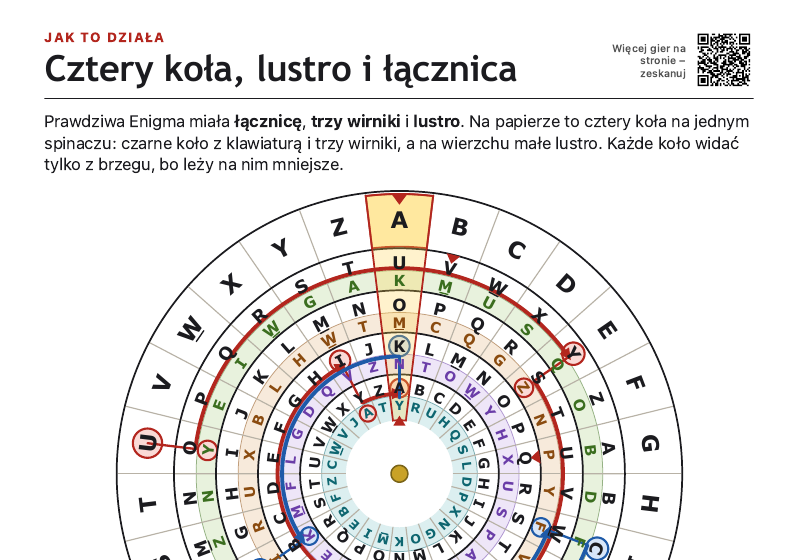
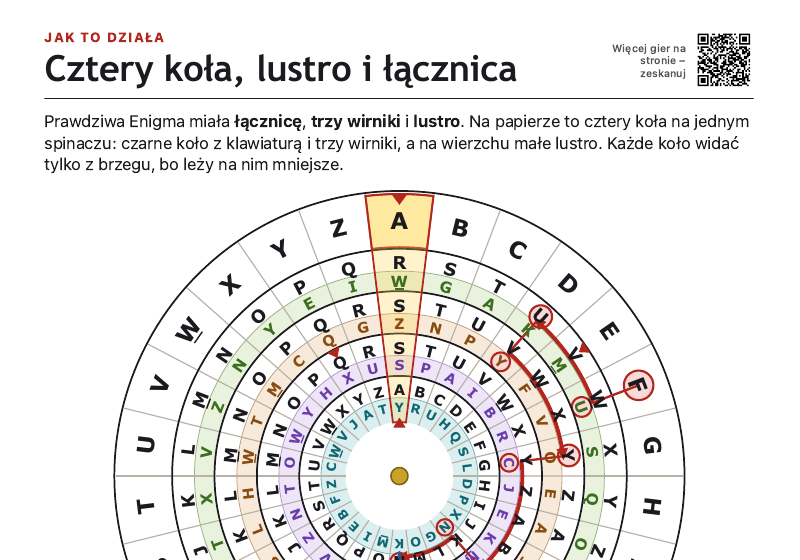
Prawdziwa Enigma 1932 (część 5): nowy klucz dnia, żeby droga pierwszej litery na stronie 2 była czytelna. Rysunek był poprawny, ale przy okienku KOT łuki „szukam tej samej litery na kole” wychodziły bardzo długie (lewy wirnik pół obrotu, prawy przez okienko, razem 54 miejsca), a droga do lustra i z 

diff --git a/enigma-1932/engine.test.js b/enigma-1932/engine.test.js
@@ -24,11 +24,11 @@ eq('paper wheels = Enigma I (2000 random days, 60 letters each)', bad, 0);
 // The day of the worksheet
 const { KEY, CODE, WINS, TRACES } = E;
 eq('the code deciphers to the message on paper', E.paper(KEY.order, KEY.start, KEY.plug, CODE), KEY.plain);
-eq('the code', CODE, 'UCVNTGNF');
+eq('the code', CODE, 'FGHUCWAN');
 eq('no letter becomes itself', [...CODE].some((c, i) => c === KEY.plain[i]), false);
-eq('windows', WINS.join(' '), 'KOU KOV KPW KPX KPY KPZ KPA KPB');
+eq('windows', WINS.join(' '), 'SSR SSS SST SSU SSV STW STX STY');
 eq('the lamps of the traces spell the message', TRACES.map(t => A[t[9]]).join(''), KEY.plain);
-eq('the first letter: no cable in, cable M–R out', TRACES[0].map(x => A[x]).join(''), 'UUELYARIMR');
+eq('the first letter: no cable in, cable J–R out', TRACES[0].map(x => A[x]).join(''), 'FFDGKNLKJR');
 // What the child reads, found again by walking the printed wheels: the coloured letter read on the way in, the black
 // letter read on the way out (each is the letter then looked for on the same wheel).
 const mod = x => ((x % 26) + 26) % 26;
@@ -42,10 +42,21 @@ function kidWay(win, ch) {
   out.push(A[spot]); out.push(sw[A[spot]] || A[spot]);
   return out.join('');
 }
-eq('the example shows what the child reads', E.STEPS[0].join(''), 'UUYZIAKFCMR');
+eq('the example shows what the child reads', E.STEPS[0].join(''), 'FFUYCNFDBJR');
+// The drawn way of the first letter stays readable: short steps on every wheel, and on no wheel do the way to the mirror
+// and the way back pass the same place.
+{
+  const t = TRACES[0], sd = (a, b) => { const d = mod(b - a); return d > 13 ? d - 26 : d; };
+  const arcs = [[1, 2], [2, 3], [3, 4], [4, 5], [5, 6], [6, 7], [7, 8]].map(([a, b]) => sd(t[a], t[b]));
+  const span = (a, d) => Array.from({ length: Math.abs(d) + 1 }, (_, i) => mod(a + Math.sign(d) * i));
+  const shared = [[0, 6], [1, 5], [2, 4]].reduce((n, [i, o]) => n + span(t[i + 1], arcs[i]).filter(x => span(t[o + 1], arcs[o]).includes(x)).length, 0);
+  eq('first letter: every step at most 4 places', Math.max(...arcs.map(Math.abs)) <= 4, true);
+  eq('first letter: no step of 0 (the letter is never right there)', arcs.includes(0), false);
+  eq('first letter: way in and way back never share a place', shared, 0);
+}
 eq('the key table shows what the child reads', E.STEPS.map(s => s.join('')).join(' '), [...CODE].map((c, i) => kidWay(WINS[i], c)).join(' '));
 const v = E.values();
-eq('middle rotor turns at letter 3', `${v.midTurn} ${v.midFrom} ${v.midTo}`, '3 KOV KPW');
+eq('middle rotor turns at letter 6', `${v.midTurn} ${v.midFrom} ${v.midTo}`, '6 SSV STW');
 eq('notches left → right', v.notches.join(''), 'QEV');
 eq('ways with 6 cables', String(E.ways(6)), '100391791500');
 eq('ways with 10 cables', String(E.ways(10)), '150738274937250');

diff --git a/enigma-1932/engine.js b/enigma-1932/engine.js
@@ -25,8 +25,12 @@ const E32 = (() => {
   const TOTAL = 7, DEFAULT_PAGES = [1, 2, 3, 4, 5, 6, 7];
 
   // ---------- the day's key and the message ----------
-  /** Rotors left → right, the window letters to start from, the plugboard cables, the message to decipher. */
-  const KEY = { order: ['I', 'II', 'III'], start: 'KOT', plug: 'RM EJ KS PW BX CZ', plain: 'REJEWSKI' };
+  /**
+   * Rotors left → right, the window letters to start from, the plugboard cables, the message to decipher. The start
+   * and the cables are chosen so that the first letter, drawn on page 2, takes short steps on every wheel and its way to
+   * the mirror and back never shares a place on a wheel (the path stays readable); its last step uses the first cable.
+   */
+  const KEY = { order: ['I', 'II', 'III'], start: 'SSQ', plug: 'JR EM KS PW BX CZ', plain: 'REJEWSKI' };
   const M = Z.machine(KEY.order, 'AAA', KEY.plug);
   const CODE = M.encrypt(KEY.start, KEY.plain);
   /** The window after each key press, and the way of every code letter typed (deciphering). */

diff --git a/enigma-1932/README.md b/enigma-1932/README.md
@@ -24,11 +24,11 @@ middle one turns if the right one, or the middle one itself, shows its notch let
 | Page | What |
 |---|---|
 | 1 | Cover: December 1932 (Rejewski, the wiring guessed from intercepts, maths and French documents; reading from January 1933 with Różycki and Zygalski, AVA's copies), what is inside, what you need, the order of the pages, a small picture of the machine put together |
-| 2 | How it works: the machine put together at window KOU with the way of the first letter (red to the mirror, blue back, the letters read ringed, drawn under the letters) and the letters the child reads and looks for, in boxes: key U, black U, right Y, middle Z, left I, mirror A, left K, middle F, right C, black M, lamp R (`E32.STEPS`) |
+| 2 | How it works: the machine put together at window SSR with the way of the first letter (red to the mirror, blue back, the letters read ringed, drawn under the letters) and the letters the child reads and looks for, in boxes: key F, black F, right U, middle Y, left C, mirror N, left F, middle D, right B, black J, lamp R (`E32.STEPS`). The day's key is chosen so that this way is short (at most 4 places on any wheel) and the way back never runs over the way in; the tests keep it so |
 | 3 | Cut-out 1 of 2: black wheel, left rotor, mirror |
 | 4 | Cut-out 2 of 2: right and middle rotor, how to build it, how to read the window |
 | 5 | The plugboard: the panel with today's cables, the strip, "through the plugboard twice", an empty panel to draw on, how many ways (6 cables: 100 391 791 500) |
-| 6 | Mission, the cipher clerk's exam: today's key (rotors I II III, window KOT, plugboard RM EJ KS PW BX CZ, mirror B), the turning rules, the way of the current; A decode UCVNTGNF → REJEWSKI (first letter given; the middle rotor turns at letter 3), B encode your name, C how many settings (6 × 17 576 × 100 391 791 500) |
+| 6 | Mission, the cipher clerk's exam: today's key (rotors I II III, window SSQ, plugboard JR EM KS PW BX CZ, mirror B), the turning rules, the way of the current; A decode FGHUCWAN → REJEWSKI (first letter given; the middle rotor turns at letter 6), B encode your name, C how many settings (6 × 17 576 × 100 391 791 500) |
 | 7 | Answer key: the name, every letter step by step (the window and the same letters as in the example on page 2, so a parent can find where it went wrong), how to check B, C, common mistakes, paper vs the real machine (rings at A, fixed rotor order) |
 
 - **`worksheet.html`**: settings (presets *For the child* 1–6, *Cut-outs* 3–5, *Answer key* 7, *Everything*, or single
